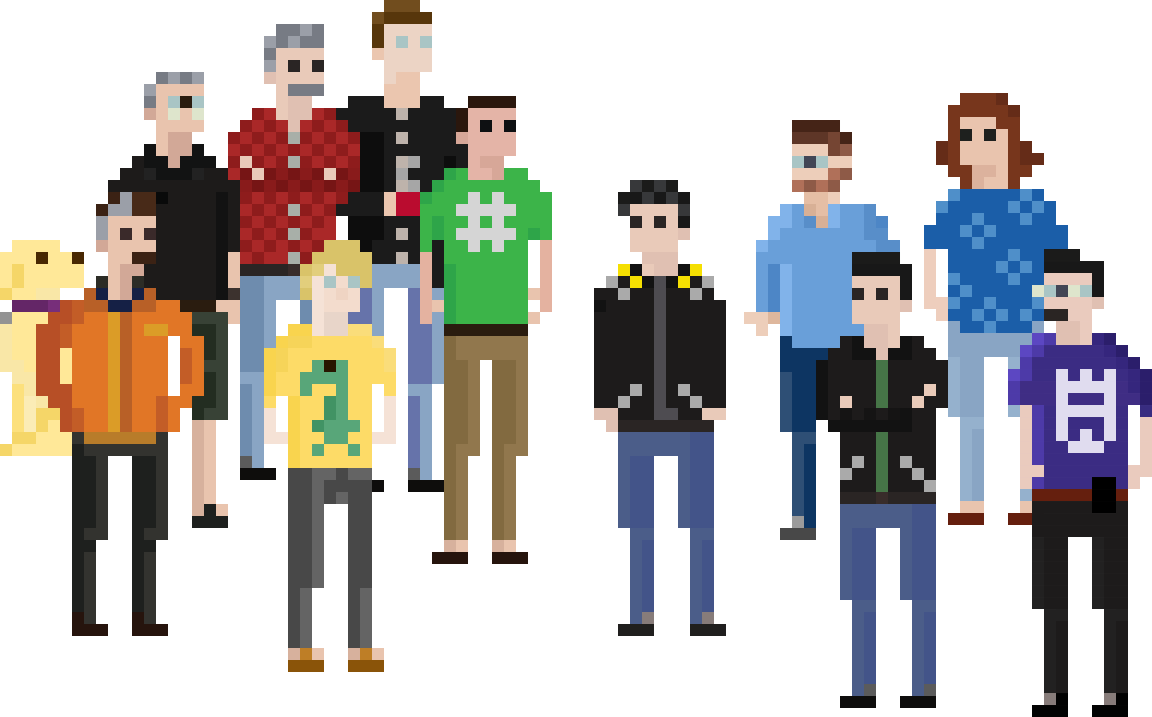
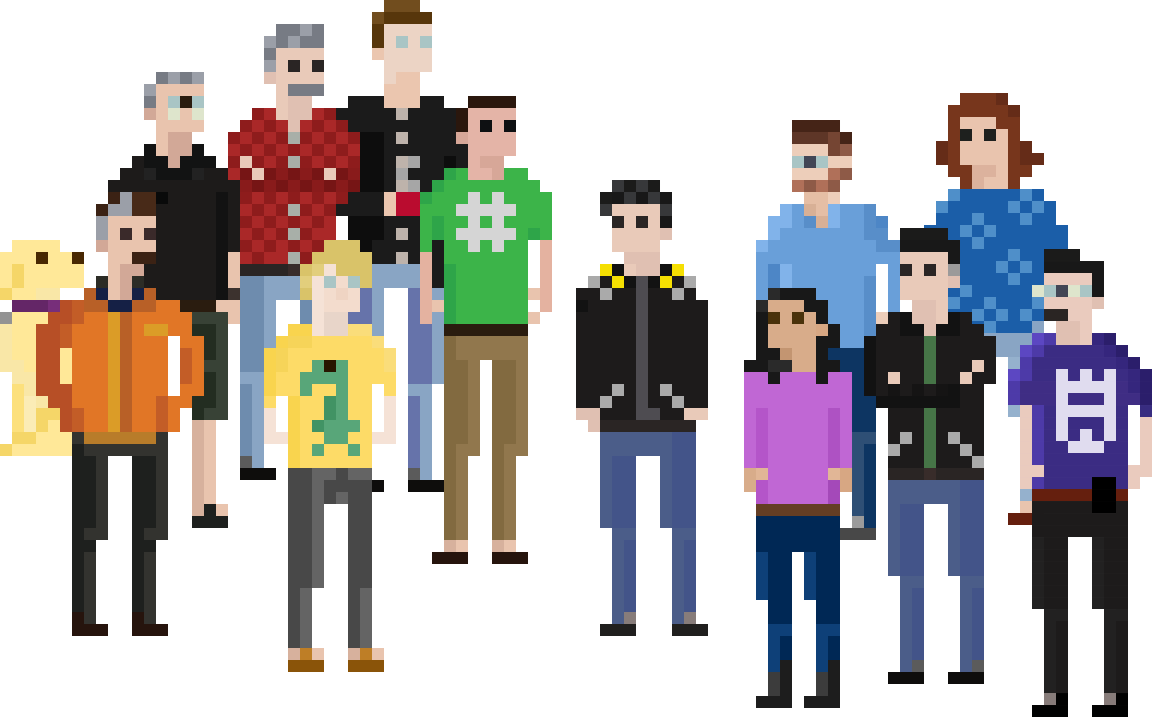
pronouns and new images

Changed region(s): [[0.5, 0.2455, 0.875, 1.0]]

diff --git a/team/index.html b/team/index.html
@@ -2,7 +2,8 @@
 layout: teamlayout
 title: Team
 breadcrumb: <li><a href="/team">Team</a></li>
-description: Three Client Supporters under the sky, <br>
+description: One Lab Supporter in the Laboratory, <br>
+  Three Client Supporters under the sky, <br>
   Three System Administrators in their cubicles of stone, <br>
   Five website developers doomed to code, <br>
   One Director to rule them all, One Director to find them, <br>

diff --git a/collections/_team/adam.md b/collections/_team/adam.md
@@ -3,6 +3,7 @@ name: Adam Getchell
 email: acgetchell@ucdavis.edu
 phone: (530) 752-8008
 role: Director of Information Technology
+pronouns: he/him
 image: /media/team/adam_pic
 categories:
   - director

diff --git a/collections/_team/surina.md b/collections/_team/surina.md
@@ -1,0 +1,11 @@
+---
+name: Surina Hankins
+email: skhankins@ucdavis.edu
+role: Lab Support
+title: default
+pronouns: she/her
+image: /media/team/surina_pic
+categories:
+  - helpdesk
+  - current
+---

diff --git a/collections/_team/cal.md b/collections/_team/cal.md
@@ -2,6 +2,8 @@
 name: Cal Doval
 email: cydoval@ucdavis.edu
 role: Web Design and Development
+pronouns: he/him
+title: Pixel Engineer
 image: /media/team/cal_pic
 categories:
   - design

diff --git a/collections/_team/scott.md b/collections/_team/scott.md
@@ -2,6 +2,7 @@
 name: Scott Kirkland
 email: srkirkland@ucdavis.edu
 role: Applications Developer
+title: Head of Computing Wizardry
 image: /media/team/scott_pic
 categories:
   - webdev

diff --git a/collections/_team/shuka.md b/collections/_team/shuka.md
@@ -3,6 +3,7 @@ name: Shuka Smith
 email: ssmith@ucdavis.edu
 phone: (530) 754-9597
 role: Systems Architect
+pronouns: he/him
 image: /media/team/shuka_pic
 categories:
   - helpdesk

diff --git a/collections/_team/darell.md b/collections/_team/darell.md
@@ -2,6 +2,8 @@
 name: Darrell Joe
 email: dwjoe@ucdavis.edu
 role: Client Support
+pronouns: he/him
+title: King's Enthusiast
 image: /media/team/dj_pic
 categories:
   - helpdesk

diff --git a/collections/_team/spruce.md b/collections/_team/spruce.md
@@ -2,6 +2,7 @@
 name: Spruce Weber-Milne
 email: swebermilne@ucdavis.edu
 role: Applications Developer
+pronouns: he/him
 image: /media/team/spruce_pic
 categories:
   - webdev

diff --git a/collections/_team/jason.md b/collections/_team/jason.md
@@ -2,6 +2,7 @@
 name: Jason Sylvestre
 email: jsylvestre@ucdavis.edu
 role: Applications Developer
+pronouns: he/him
 image: /media/team/jason_pic
 categories:
   - webdev

diff --git a/collections/_team/steven.md b/collections/_team/steven.md
@@ -2,6 +2,7 @@
 name: Steven Barkey
 email: sjbarkey@ucdavis.edu
 role: Systems Administrator
+pronouns: he/him
 image: /media/team/steven_pic
 categories:
   - helpdesk

diff --git a/collections/_team/jackie.md b/collections/_team/jackie.md
@@ -2,6 +2,7 @@
 name: Jackie Emerson
 email: jaemerson@ucdavis.edu
 role: Client Support
+pronouns: she/her
 image: /media/team/jackie_pic
 categories:
   - helpdesk

diff --git a/collections/_team/ken.md b/collections/_team/ken.md
@@ -2,6 +2,7 @@
 name: Ken Taylor
 email: kentaylor@ucdavis.edu
 role: Applications Developer
+pronouns: he/him
 image: /media/team/ken_pic
 categories:
   - webdev
